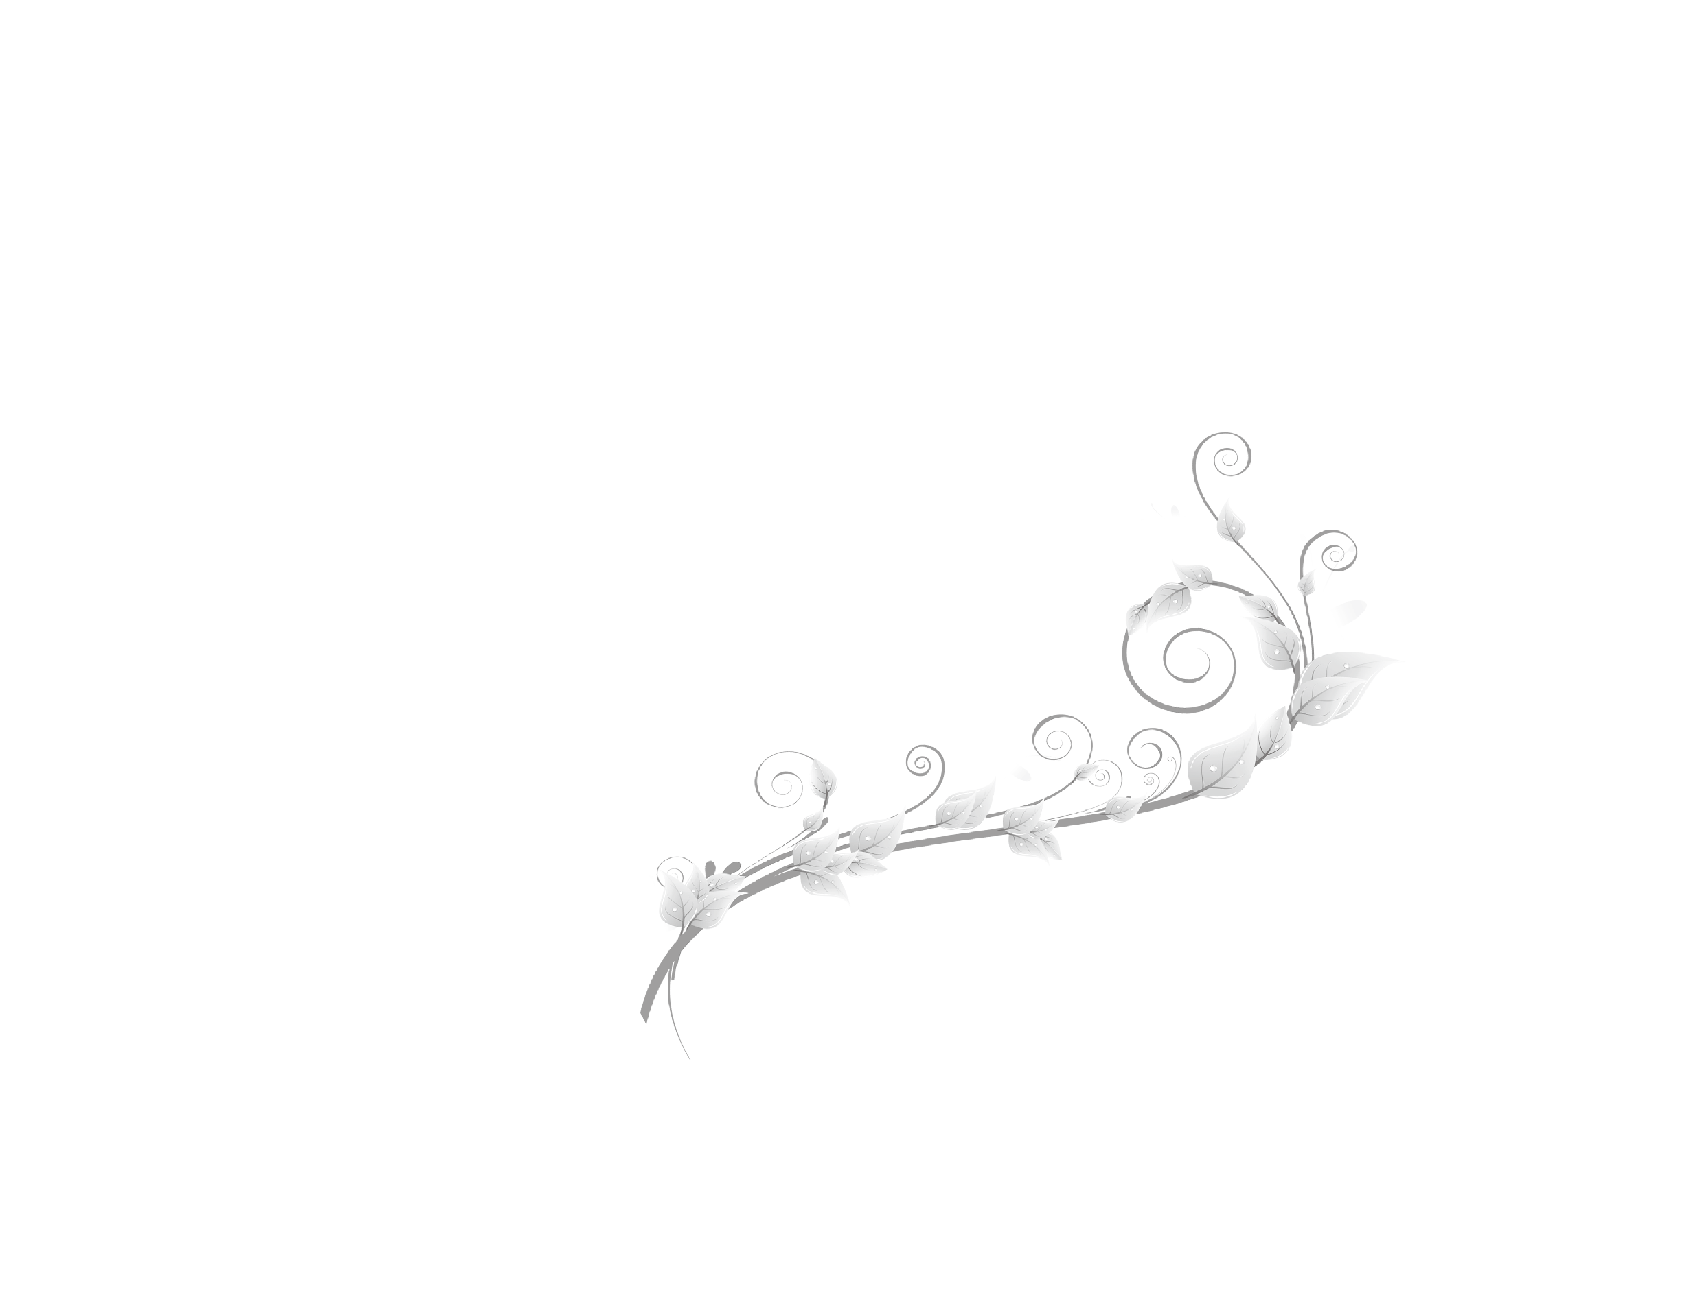
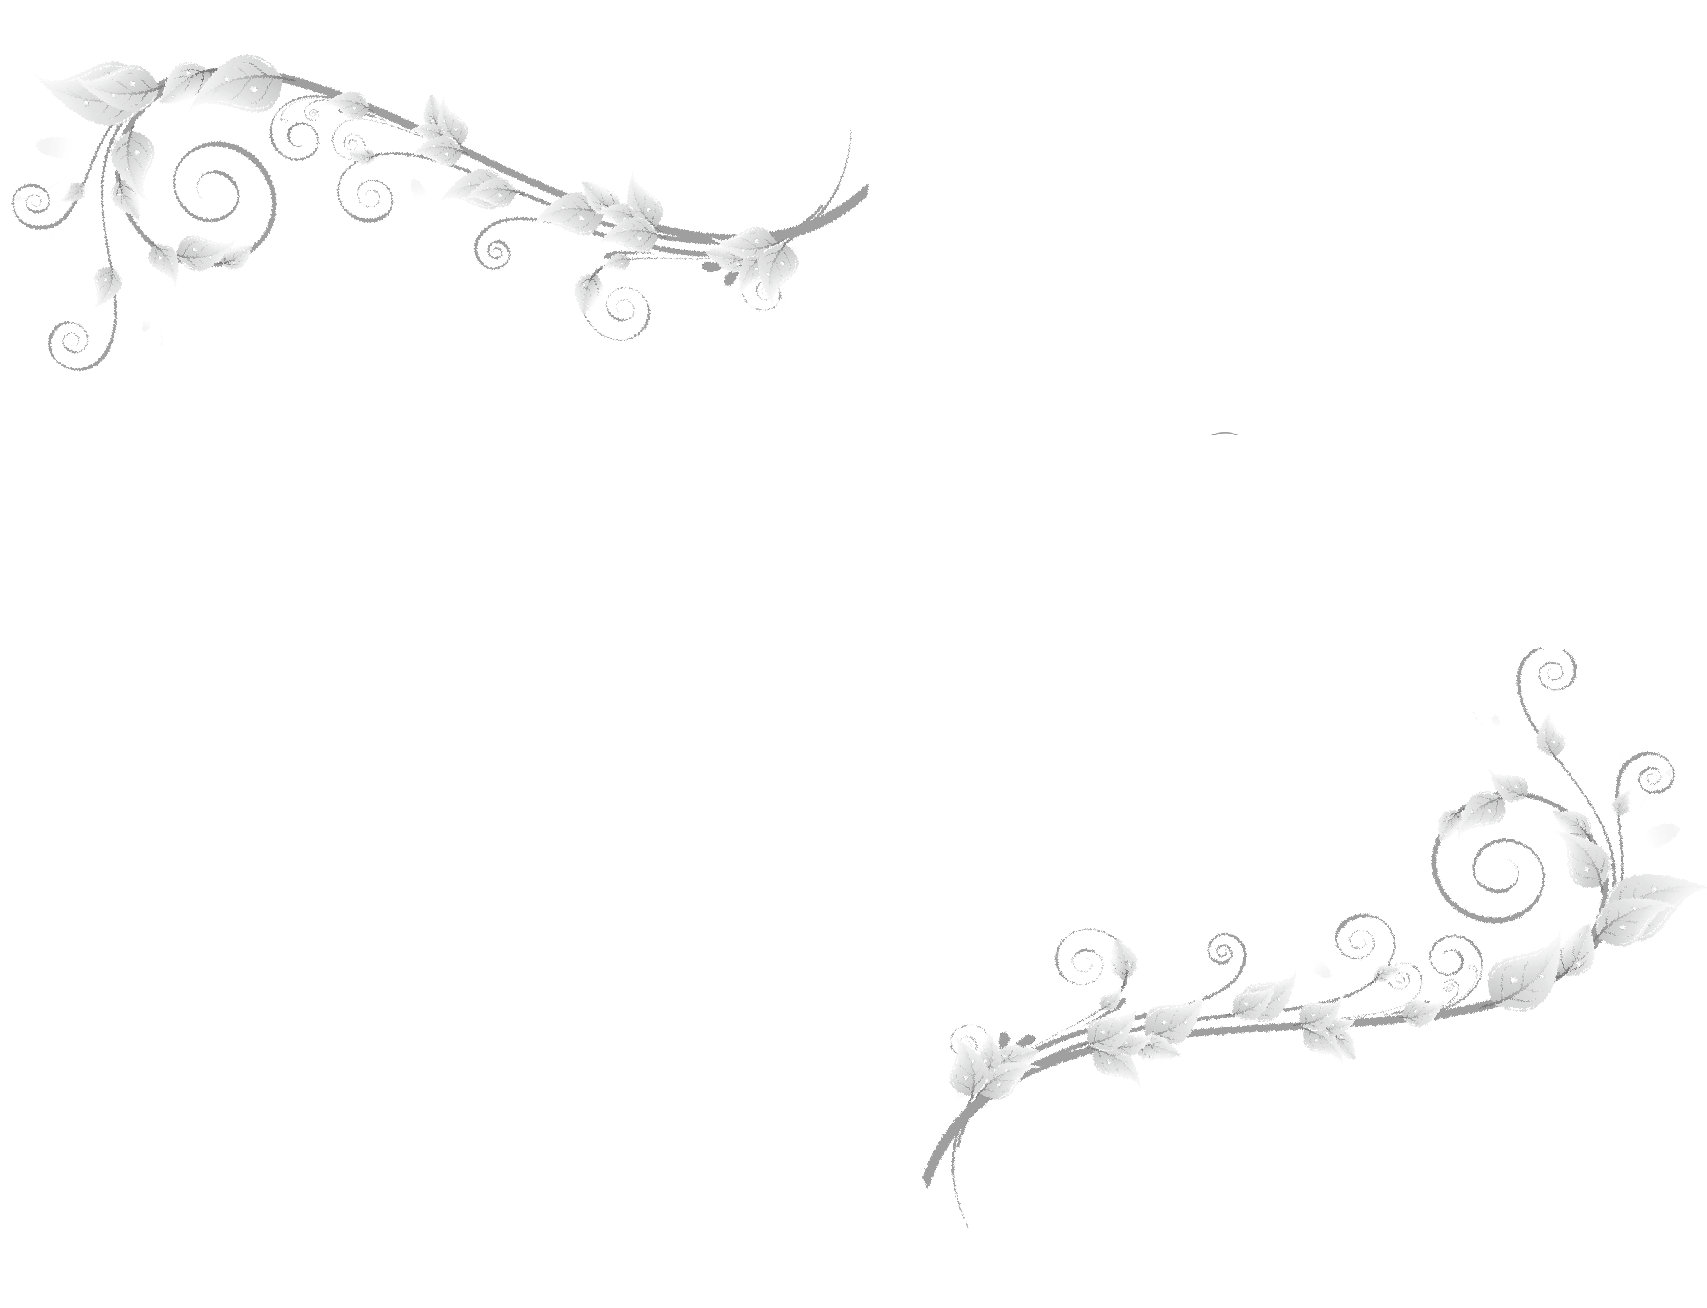
s

diff --git a/styles.css b/styles.css
@@ -1340,10 +1340,9 @@ input[type="radio"] {
 footer {
   position: relative;
   overflow: hidden;
-  min-height: 20rem;
+  min-height: 23rem;
   display: grid;
   align-content: center;
-  padding: 2.75rem 1.25rem 4.5rem;
   color: var(--muted);
   background: linear-gradient(180deg, #fffdf8, var(--green-100));
   text-align: center;
@@ -1355,8 +1354,8 @@ footer::before {
   z-index: 0;
   inset: 0;
   background-image: url("assets/pngegg.png");
-  background-position: right -2rem bottom -2.5rem;
-  background-size: clamp(23rem, 70vw, 46rem) auto;
+  background-position: center bottom;
+  background-size: 100% 100%;
   background-repeat: no-repeat;
   filter: sepia(1) saturate(2.4) hue-rotate(78deg) brightness(0.78);
   mix-blend-mode: multiply;
